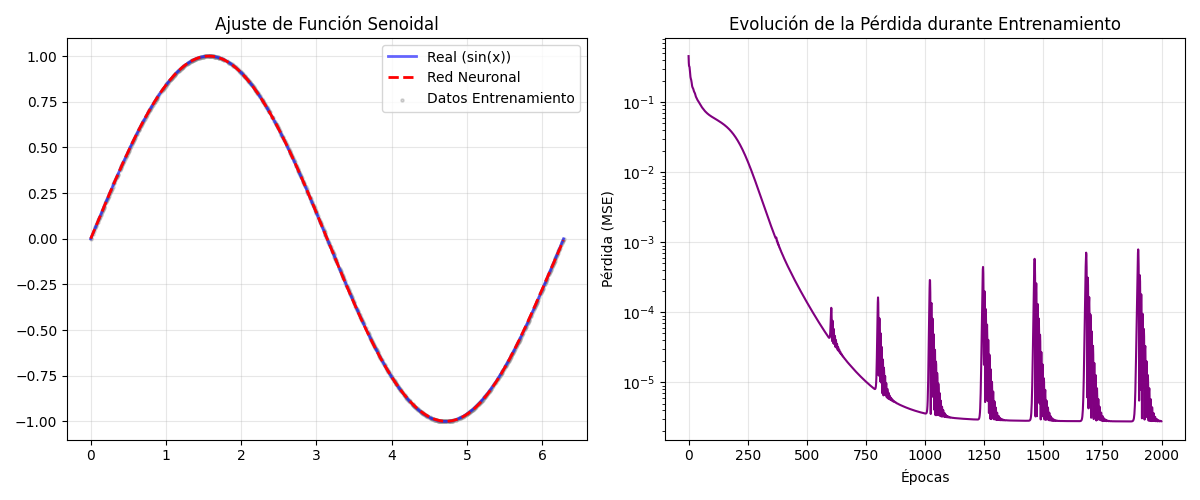
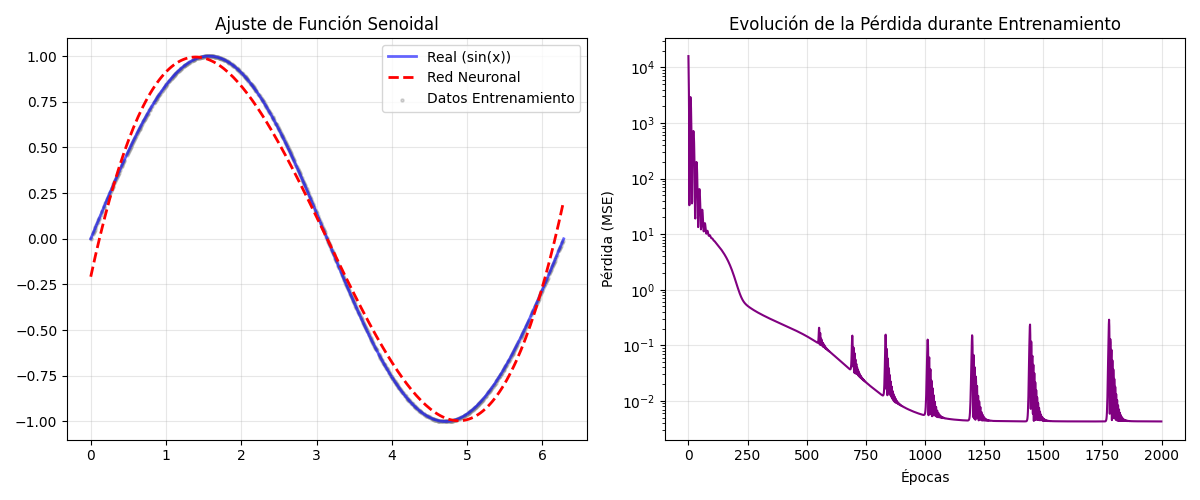
añade función de activación derivada de hamiltoniano GO

diff --git a/MODELO_SENOIDAL.py b/MODELO_SENOIDAL.py
@@ -1,6 +1,6 @@
 # modelo_senoidal.py
 # Autor: Daniel Cano Duque
-# Proyecto PyTorch 2025 – Entregable 1
+# Proyecto PyTorch 2026 
 
 try:
     import torch
@@ -10,6 +10,31 @@ except (ModuleNotFoundError, ImportError) as e:
 
 import numpy as np
 import matplotlib.pyplot as plt
+
+class HamiltonianActivation(nn.Module):
+    """
+    Clase de activación personalizada que implementa la función f(x) = -4x^3 + 2x.
+
+    Esta función se utiliza como una activación en la red neuronal y puede interpretarse
+    como la derivada de un Hamiltoniano efectivo. En física de sistemas cuánticos,
+    especialmente en el contexto de materiales como el grafeno oxidado, las funciones
+    de activación pueden modelar respuestas no lineales que surgen de interacciones
+    fundamentales. En este caso, si consideramos un Hamiltoniano efectivo H(x) dado por:
+
+    H(x) = -x^4 + x^2 + c
+
+    la derivada de este Hamiltoniano con respecto a x es:
+
+    dH/dx = d/dx (-x^4 + x^2) = 4x^3 - 2x
+
+    Por lo tanto, esta función de activación representa la fuerza o el cambio de energía
+    asociado a la variación de un parámetro x en el sistema. Su uso en una red neuronal
+    permite que el modelo capture dinámicas no lineales que son análogas a las presentes
+    en sistemas físicos complejos, proporcionando una base teórica para la elección
+    de esta activación particular en el modelado de fenómenos físicos.
+    """
+    def forward(self, x):
+        return 4 * x**3 - 1 * x 
 
 class ModeloSenoidal:
     """
@@ -61,7 +86,7 @@ class ModeloSenoidal:
         """
         self.modelo = nn.Sequential(
             nn.Linear(1, 20),   # Aumentado a 20 neuronas para mejor "suavidad"
-            nn.Tanh(),          # Tanh es excelente para funciones como seno
+            HamiltonianActivation(), # Activación personalizada basada en la derivada de un Hamiltoniano efectivo
             nn.Linear(20, 1)   # Capa de salida
         )
         return self.modelo #| Retornar modelo construido
@@ -148,6 +173,14 @@ class ModeloSenoidal:
         plt.yscale("log") # Escala logarítmica para ver mejor la convergencia final
         plt.grid(True, alpha=0.3)  # Cuadrícula más sutil
 
+        #subplot 3: curva de perdida (validación vs Epoch)
+        plt.subplot(1, 3, 3) # Pérdida de validación en escala logarítmica
+        plt.plot(self.historial_perdidas_val, label="MSE Loss Validación", color="orange") # Color más visible
+        plt.title("Evolución de la Pérdida de Validación durante Entrenamiento") # Título descriptivo
+        plt.xlabel("Épocas") # Número de épocas en el eje x
+        plt.ylabel("Pérdida (MSE)") # Pérdida en el eje y
+        plt.yscale("log") # Escala logarítmica para ver mejor la convergencia final
+        plt.grid(True, alpha=0.3)  # Cuadrícula más sutil
 
         plt.tight_layout()  # Ajustar subplots para evitar solapamientos
         plt.savefig(nombre_archivo) # Guardar figura

diff --git a/README.md b/README.md
@@ -7,12 +7,12 @@ El código sigue un enfoque orientado a objetos y realiza un ciclo de entrenamie
 ---
 
 ## 📋 Tabla de Contenidos
-- [Descripción](#descripción)
-- [Requisitos](#requisitos)
-- [Instalación y Ejecución](#instalación-y-ejecución)
-- [Estructura del Código](#estructura-del-código)
-- [Resultados](#resultados)
-- [Autor](#autor)
+- [Descripción](#Descripción)
+- [Requisitos](#Requisitos)
+- [Instalación y Ejecución](#Instalación-y-Ejecución)
+- [Estructura del Código](#Estructura-Del-Código)
+- [Resultados](#Resultados)
+- [Autor](#Autor)
 
 ---
 
